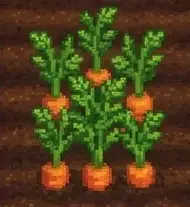
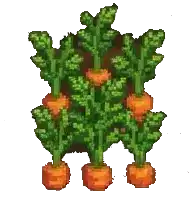
Crop Fields

diff --git a/frontend/src/pages/FarmPage.jsx b/frontend/src/pages/FarmPage.jsx
@@ -1,4 +1,4 @@
-import { useState } from 'react'
+import { useEffect, useRef, useState } from 'react'
 import { css } from '@emotion/react'
 
 const crops = [
@@ -100,25 +100,73 @@ const plot = (area, isDragTarget, hasCrop) => css`
   ${hasCrop ? 'background: rgba(71, 38, 19, 0.12);' : ''}
 `
 
-const plantedCrop = css`
+const plantedCrop = (horizontalOffset, verticalOffset) => css`
   position: absolute;
-  inset: 5% 7%;
-  display: grid;
-  place-items: center;
+  inset: 0;
+  display: flex;
+  flex-wrap: wrap;
+  align-content: flex-start;
+  justify-content: flex-start;
+  overflow: hidden;
   pointer-events: none;
 
-  img {
-    width: min(42%, 96px);
-    height: min(62%, 110px);
-    object-fit: contain;
-    filter: drop-shadow(2px 4px 2px rgba(42, 25, 9, 0.32));
-  }
+  ${horizontalOffset ? `margin-left: ${horizontalOffset}px; width: calc(100% - ${horizontalOffset}px);` : ''}
+  ${verticalOffset ? `margin-top: ${verticalOffset}px; height: calc(100% - ${verticalOffset}px);` : ''}
+`
+
+const plantedTile = css`
+  display: block;
+  width: var(--crop-tile-width);
+  height: var(--crop-tile-height);
+  flex: 0 0 var(--crop-tile-width);
+  object-fit: contain;
+  filter: drop-shadow(1px 2px 1px rgba(42, 25, 9, 0.28));
 `
 
 export default function FarmPage() {
   const [draggedCrop, setDraggedCrop] = useState(null)
   const [planted, setPlanted] = useState({})
   const [activePlot, setActivePlot] = useState(null)
+  const [plotLayouts, setPlotLayouts] = useState([])
+  const plotRefs = useRef([])
+
+  useEffect(() => {
+    function updatePlotLayouts() {
+      const baseTileWidth = Math.min(44.85, Math.max(23.92, window.innerWidth * 0.0299))
+      const bottomField = plotRefs.current[4]
+      const bottomRowTileWidth = bottomField && bottomField.clientHeight > 0
+        ? (bottomField.clientHeight * 190) / (4 * 207)
+        : baseTileWidth
+      const tileWidth = Math.min(baseTileWidth, bottomRowTileWidth)
+      const tileHeight = tileWidth * (207 / 190)
+
+      setPlotLayouts(plotRefs.current.map((plotElement, index) => {
+        if (!plotElement) return { count: 0, columns: 0, tileWidth, tileHeight }
+
+        const horizontalOffset = index === 4 ? 4 : index === 2 ? 5 : index === 3 ? 20 : index === 1 ? 4 : index === 0 ? 15 : 0
+        const verticalOffset = index === 0 ? 20 : index === 1 ? 20 : 0
+        const availableWidth = plotElement.clientWidth - horizontalOffset
+        const availableHeight = plotElement.clientHeight - verticalOffset
+        const columns = Math.floor(availableWidth / tileWidth)
+        const rows = Math.floor(availableHeight / tileHeight)
+        const rowsToRender = index === 4 ? 4 : rows
+
+        return { count: columns * rowsToRender, columns, tileWidth, tileHeight }
+      }))
+    }
+
+    updatePlotLayouts()
+    window.addEventListener('resize', updatePlotLayouts)
+    const observer = new ResizeObserver(updatePlotLayouts)
+    plotRefs.current.forEach((plotElement) => {
+      if (plotElement) observer.observe(plotElement)
+    })
+
+    return () => {
+      window.removeEventListener('resize', updatePlotLayouts)
+      observer.disconnect()
+    }
+  }, [])
 
   function startDragging(event, crop) {
     setDraggedCrop(crop)
@@ -167,6 +215,9 @@ export default function FarmPage() {
           return (
             <div
               key={index}
+              ref={(plotElement) => {
+                plotRefs.current[index] = plotElement
+              }}
               css={plot(area, activePlot === index && Boolean(draggedCrop), Boolean(crop))}
               onDragEnter={(event) => {
                 event.preventDefault()
@@ -181,9 +232,46 @@ export default function FarmPage() {
               aria-label={crop ? `${crop.name} planted` : 'Empty farm plot'}
             >
               {crop && (
-                <span css={plantedCrop} title={`${crop.name} planted`}>
-                  <img src={crop.image} alt={`${crop.name} crop`} />
+                (() => {
+                  const layout = plotLayouts[index]
+
+                  if (!layout?.count) return null
+
+                  return (
+                <span
+                  css={plantedCrop(
+                    index === 4 ? 4 : index === 2 ? 5 : index === 3 ? 20 : index === 1 ? 4 : index === 0 ? 15 : 0,
+                    index === 0 ? 20 : index === 1 ? 20 : 0,
+                  )}
+                  title={`${crop.name} planted`}
+                  role="img"
+                  aria-label={`${crop.name} crop planted across the plot`}
+                  style={{
+                    '--crop-tile-width': `${layout.tileWidth}px`,
+                    '--crop-tile-height': `${layout.tileHeight}px`,
+                  }}
+                >
+                  {Array.from({ length: layout.count }, (_, cropIndex) => (
+                    ((index === 4 && cropIndex === layout.count - layout.columns)
+                      || (index === 2 && cropIndex === layout.columns - 1)
+                      || (index === 3 && cropIndex === layout.count - 1)) ? (
+                      <span
+                        key={`empty-plot-${index}-${cropIndex}`}
+                        css={plantedTile}
+                        aria-label="Empty plot space"
+                      />
+                    ) : (
+                      <img
+                        key={`${crop.id}-${cropIndex}`}
+                        css={plantedTile}
+                        src={crop.image}
+                        alt=""
+                      />
+                    )
+                  ))}
                 </span>
+                  )
+                })()
               )}
             </div>
           )
